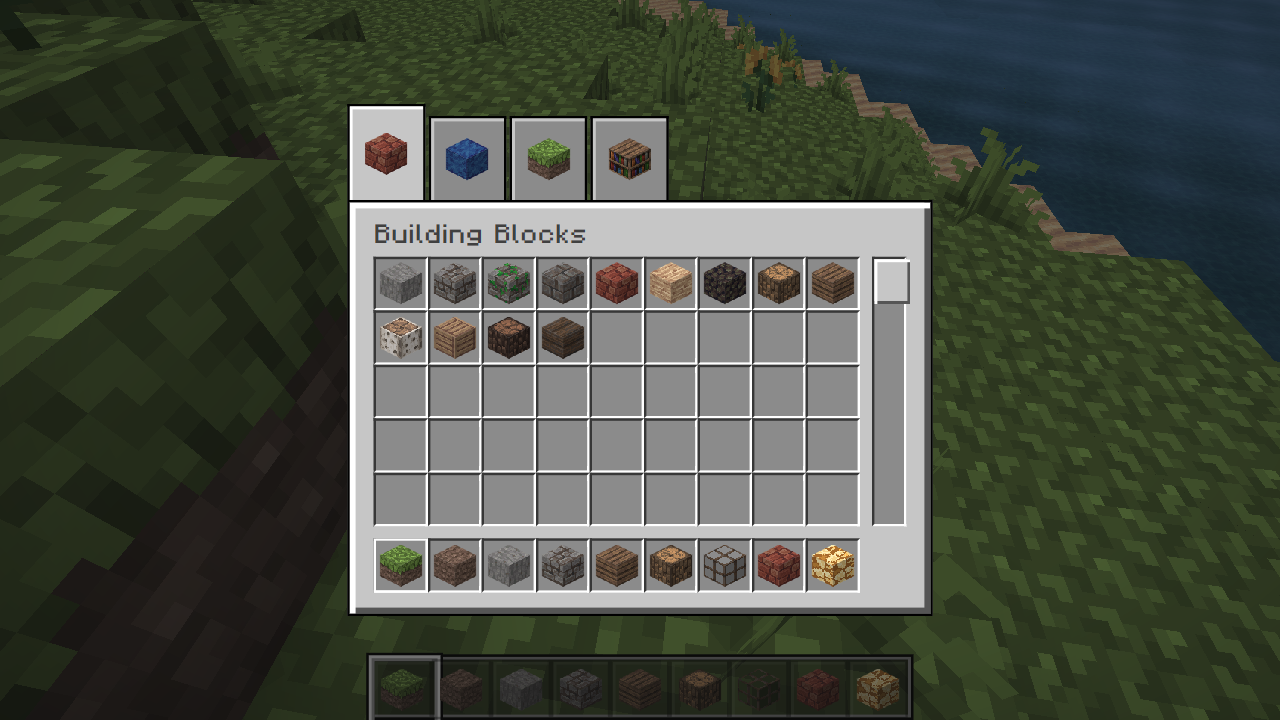
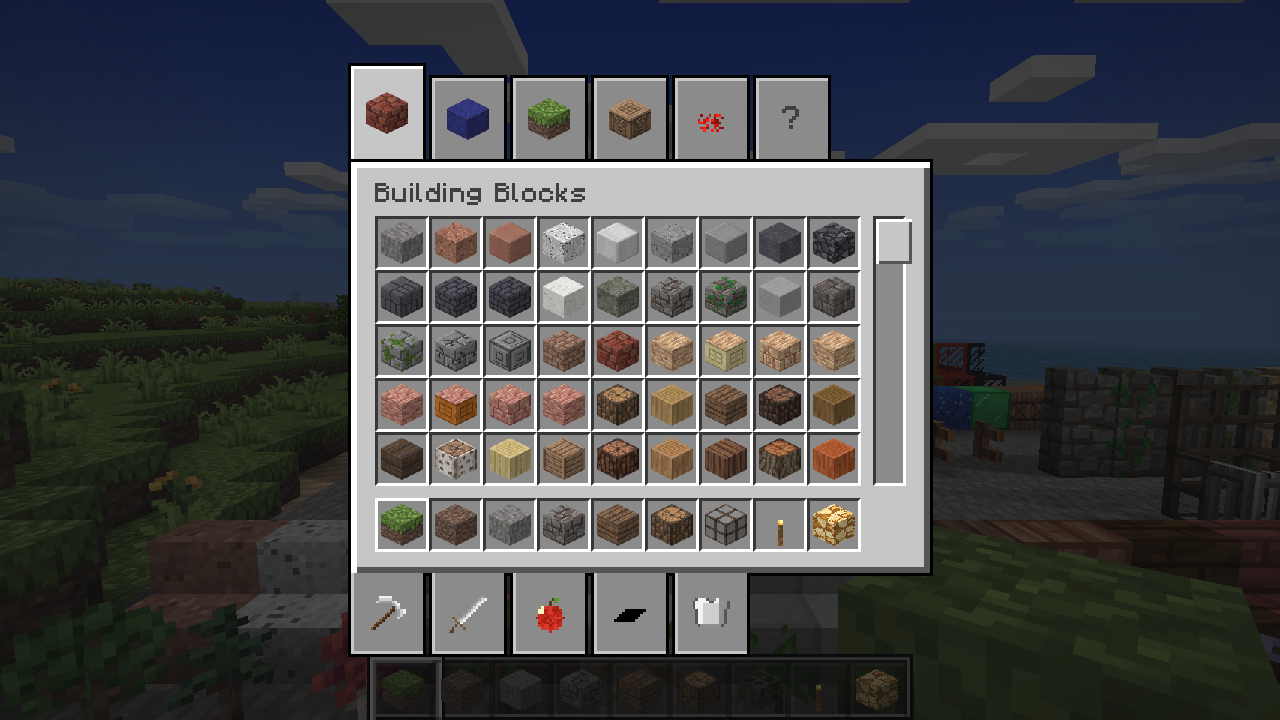
Add the Survival Inventory tab, dye tint for particles, docs and screenshots for the new content

diff --git a/src/ui/Inventory.ts b/src/ui/Inventory.ts
@@ -1,4 +1,4 @@
-import { getItemDef } from '../items/ItemRegistry';
+import { getItemDef, itemId } from '../items/ItemRegistry';
 import type { BlockIcons } from './BlockIcons';
 import { type CreativeTab, allCreativeItems, buildCreativeTabs } from './CreativeTabs';
 import { h } from './dom';
@@ -30,6 +30,8 @@ export class Inventory {
   private scrollRow = 0;
   private items: number[] = [];
   onClose: (() => void) | null = null;
+  /** The "Survival Inventory" tab: switches to the survival screen (armor, crafting). */
+  onSurvival: (() => void) | null = null;
 
   constructor(private readonly icons: BlockIcons, private readonly hotbar: Hotbar) {
     this.tabs = buildCreativeTabs();
@@ -140,7 +142,10 @@ export class Inventory {
       ...this.tabs.map((t, i) => (t.bottom ? null : this.tabEl(t.name, t.icon, i, false))).filter((e): e is HTMLDivElement => !!e),
       this.tabEl('Search Items', null, searchIndex, false),
     );
-    this.bottomTabs.replaceChildren(...this.tabs.map((t, i) => (t.bottom ? this.tabEl(t.name, t.icon, i, true) : null)).filter((e): e is HTMLDivElement => !!e));
+    const survival = h('div', { class: 'inv-tab bottom', title: 'Survival Inventory' },
+      h('img', { src: this.icons.get(itemId('iron_chestplate')), alt: '', draggable: false }));
+    survival.addEventListener('click', () => this.onSurvival?.());
+    this.bottomTabs.replaceChildren(...this.tabs.map((t, i) => (t.bottom ? this.tabEl(t.name, t.icon, i, true) : null)).filter((e): e is HTMLDivElement => !!e), survival);
     this.title.textContent = this.isSearch ? '' : this.tabs[this.tab].name;
     this.title.classList.toggle('hidden', this.isSearch);
     this.search.classList.toggle('hidden', !this.isSearch);

diff --git a/src/core/Interaction.ts b/src/core/Interaction.ts
@@ -329,7 +329,7 @@ export class Interaction {
       this.hitSoundTimer = 0.22;
       audio.play('hit', stateSound(def, hitMeta));
       renderer.particles.spawnFace(hit.x, hit.y, hit.z, hit.nx, hit.ny, hit.nz, hit.id,
-        world.getLight(hit.x + hit.nx, hit.y + hit.ny, hit.z + hit.nz), 2, world.tintAt(hit.x, hit.z, hit.id));
+        world.getLight(hit.x + hit.nx, hit.y + hit.ny, hit.z + hit.nz), 2, world.tintAt(hit.x, hit.z, hit.id, hitMeta));
     }
     if (this.breakProgress < 1) return;
 
@@ -338,7 +338,7 @@ export class Interaction {
     const brokenMeta = world.getMeta(hit.x, hit.y, hit.z);
     const broken = world.breakBlock(hit.x, hit.y, hit.z);
     if (broken) {
-      renderer.particles.spawnBreak(hit.x, hit.y, hit.z, broken, light, world.tintAt(hit.x, hit.z, broken));
+      renderer.particles.spawnBreak(hit.x, hit.y, hit.z, broken, light, world.tintAt(hit.x, hit.z, broken, brokenMeta));
       audio.play('break', stateSound(def, brokenMeta));
       if (survival) {
         const drop = blockDrop(broken, held, brokenMeta);
@@ -403,7 +403,7 @@ export class Interaction {
     const def = getBlockDef(id)!;
     audio.play('place', stateSound(def, baseMeta));
     hand.swingHand();
-    renderer.particles.spawnFace(x - hit.nx, y - hit.ny, z - hit.nz, hit.nx, hit.ny, hit.nz, id, world.getLight(x, y, z), 3, world.tintAt(x, z, id));
+    renderer.particles.spawnFace(x - hit.nx, y - hit.ny, z - hit.nz, hit.nx, hit.ny, hit.nz, id, world.getLight(x, y, z), 3, world.tintAt(x, z, id, baseMeta));
     if (hasSurvivalRules(mode)) inventory.consumeSlot(hotbar.selected);
     this.breakProgress = 0;
   }

diff --git a/src/world/World.ts b/src/world/World.ts
@@ -1,7 +1,7 @@
 import type { WorkerPool } from '../workers/WorkerPool';
 import { tintColor } from './BiomeColors';
 import { ContainerStore } from './Containers';
-import { BLOCK, BOX_KIND, SHAPE, SHAPE_CROSS, SHAPE_DOOR, SHAPE_MODEL, SOLID, TINT } from './BlockRegistry';
+import { BLOCK, BOX_KIND, DYE, DYE_RGB, SHAPE, SHAPE_CROSS, SHAPE_DOOR, SHAPE_MODEL, SOLID, TINT } from './BlockRegistry';
 import { CHUNK_READY, type Chunk } from './Chunk';
 import { ChunkManager, type ChunkMaterials } from './ChunkManager';
 import { CHUNK_HEIGHT, CHUNK_VOLUME, SEA_LEVEL, blockIndex, chunkKey } from './constants';
@@ -113,7 +113,8 @@ export class World {
   }
 
   /** Biome tint (packed 0xRRGGBB) for a block at a column; white if untinted. */
-  tintAt(x: number, z: number, id: number): number {
+  tintAt(x: number, z: number, id: number, meta = 0): number {
+    if (DYE[id]) return DYE_RGB[meta & 15];
     if (!TINT[id]) return 0xffffff;
     const c = this.chunkAt(x >> 4, z >> 4);
     const biome = c?.biomes ? c.biomes[(x & 15) + (z & 15) * 16] : 2;

diff --git a/src/core/Game.ts b/src/core/Game.ts
@@ -229,6 +229,10 @@ export class Game {
     });
 
     this.inventory.onClose = () => void this.resumeGame();
+    this.inventory.onSurvival = () => {
+      this.inventory.close();
+      this.survivalInventory.open(this.nearbyStations());
+    };
     this.stats.onHurt = () => this.audio.playHurt();
     this.input.onKeyDown = (code) => this.onKey(code);
     this.input.onLockChange = (locked) => this.onLockChange(locked);

diff --git a/scripts/content-shots.py b/scripts/content-shots.py
@@ -89,7 +89,7 @@ with sync_playwright() as p:
     time.sleep(0.5)
     n_tabs = page.evaluate("document.querySelectorAll('.inv-tab').length")
     print('tabs', n_tabs)
-    for i in range(n_tabs):
+    for i in range(n_tabs - 1):  # the last tab opens the survival inventory
         page.evaluate(f"document.querySelectorAll('.inv-tab')[{i}].click()")
         time.sleep(0.25)
         page.screenshot(path=f'{out}/tab{i}.png')

diff --git a/docs/CONTENT.md b/docs/CONTENT.md
@@ -76,6 +76,68 @@ Formules (uit de wiki): schade na harnas = `damage × (1 − min(20, max(armor/5
 Harnaspunten helm/borst/broek/laars: leer 1/3/2/1, maliën 2/5/4/1, ijzer 2/6/5/2, goud 2/5/3/1, diamant 3/8/6/3 (toughness 2 per diamantstuk).
 Duurzaamheid = basis (11/16/15/13) × multiplier (leer 5, maliën 15, ijzer 15, goud 7, diamant 33).
 
-## 4. Status
+## 4. Wat er is gebouwd
 
-Wordt bijgewerkt bij de oplevering (zie de eindtelling hieronder).
+### Telling per tab (items in de creative inventory)
+
+| Tab | Items | Voorbeelden |
+|---|---|---|
+| Building Blocks | 147 | 8 houtsoorten (log, stripped log, planken), steenfamilie, zandsteen, deepslate, modder, metaalblokken, glas, 9 + 24 slab- en trapmaterialen, deuren, luiken, hekken, poorten, muren |
+| Colored Blocks | 129 | 16 × (wol, tapijt, bed, terracotta, geglazuurd, beton, glas, glasruit) + terracotta |
+| Natural Blocks | 70 | grond, erts, logs, 8 bladsoorten, 7 saplings, 10 bloemen, paddenstoelen, suikerriet, pompoen, meloen, hooibaal, spinnenweb |
+| Functional Blocks | 15 | werkbank, oven, kist, boekenkast, ladder, fakkel, lantaarn, glowstone, zeelantaarn, uitgesneden pompoen, TNT, tralies, glasruit |
+| Redstone Blocks | 3 | alleen redstone-stof, redstoneblok en TNT: de rest is tier 2 |
+| Tools & Utilities | 26 | schop, houweel, bijl, schoffel (5 tiers), schaar, vuur-en-staal, emmers, kom |
+| Combat | 32 | zwaarden en bijlen (5 tiers), boog, pijl, 20 harnasstukken |
+| Food & Drinks | 29 | 10 vleessoorten, appel, gouden appel, brood, koekje, aardappel, wortel, meloen, taart, stoofpot, vis, bessen |
+| Ingredients | 50 | kolen, houtskool, rauwe en gesmolten metalen, edelstenen, 16 kleurstoffen, papier, boek, leer, zaden |
+
+Totaal: **182 bloktypes** (hoogste id 185 van 254, dus nog ruim 60 vrij), ~480 uniek vindbare items, **~420 recepten** (106 zonder werkbank, 271 met werkbank,
+43 smelten), **223 textuurlagen** van de 255 die `FACE_LAYER` toelaat.
+
+### Ontwerpkeuzes
+
+- **Kleurfamilies via tint:** wol, beton, terracotta, geglazuurd terracotta, gekleurd glas, tapijt, ruiten en bedden gebruiken één grijze basistextuur
+  (alpha 128 = "vermenigvuldig met de hoekpunttint" voor ondoorzichtige blokken) en `meta & 15` kiest de kleur. Voor een geïmporteerd Minecraft-jar
+  wordt `white_*` met dezelfde tint vermenigvuldigd. Gekleurd glas is alpha-getest en dus niet doorzichtig; echte transparantie is tier 2.
+- **Materiaal in de state:** `SLAB_X` (bits 2-6, 24 materialen), `STAIRS_X` (bits 3-7), deuren (bits 5-7), luiken (bits 4-7), hekpoorten (bits 3-5), hekken (bits 0-2)
+  en muren (bits 0-4). Het materiaal bepaalt via `VARIANT_LAYER` de textuurlaag, geluid, hardheid en gereedschap. De mesher leest daarvoor alleen
+  `meta` voor deze vormen, kubussen blijven goedkoop (kleur en voorkant zijn de enige uitzonderingen).
+- **Eigen id's voor wat de worldgen moet kunnen plaatsen:** granite, diorite, andesite, tuff, calcite, deepslate-set, ertsen, bloemen, paddenstoelen,
+  suikerriet, pompoen, melon, ijs, cobweb, en de logs en bladeren van jungle, acacia, dark oak, mangrove en cherry zijn gewone blok-id's. **Voor het
+  terrein-team:** deze blokken staan klaar (`CUBE_ID.<naam>`, bijv. `CUBE_ID.granite`, `CUBE_ID.jungle_log`) maar worden nog door niets gegenereerd.
+- **Dunne vormen** (`src/world/BoxShapes.ts`): tapijt, luik, hekpoort, hek, muur, glasruit/tralies, ladder en bed zijn een paar boxen waarvan
+  zichtbare vorm, botsing en raycast uit dezelfde functies komen. Hekken, muren en ruiten leiden hun verbindingen af uit de buren (zoals trappen),
+  hekken en muren zijn 1,5 hoog (de botsing kijkt daarom één cel lager). Een bed is twee blokken, een ladder klimt via `Player.step`.
+- **Furnace, kist en pompoenen** hebben een richting (`meta & 3` bepaalt welke zijde de voorkant toont). `meta 0` is de oude vaste voorkant, dus
+  bestaande ovens veranderen niet.
+- **Chests** (`ContainerStore`, `WorldMeta.containers`): de inhoud staat los van de chunks en wordt met de wereld opgeslagen. In multiplayer slaat de server
+  geen containers op; kisten zijn daar niet te plaatsen.
+- **Per-stack data:** `ItemStack.data?: Record<string, number>` met een append-only sleutellijst (`ITEM_DATA_KEYS`). Opslagformaat
+  `[id, count, damage, sleutel, waarde, ...]`, dus oude saves (3 getallen) blijven geldig; `drop` en `taken` dragen `data` mee.
+- **Harnas** zit als 4 extra records (slot 36-39) in `PlayerInventory.serialize()`: oude saves en de server (limiet 64 records) blijven werken.
+
+### Wat bewust anders is dan vanilla
+
+- Beton heeft geen poeder (4 zand + 4 grind + kleurstof → 8 beton); kleurstoffen: bruin (cacao), zwart (inktzak) en grijs (heeft zwart nodig) hebben nog geen bron.
+- Een bed zet je respawnpunt en slaapt 's nachts door, zonder spelers-in-bed-telling of monstercheck.
+- Mud bricks en hooi vragen tarwe, dus landbouw (tier 2). Het brood-, koekje-, taart- en leerrecept zijn er, maar wat ze als grondstof nodig hebben ontbreekt nog in de wereld
+  (tarwe, cacao, eieren, leer van koeien). `tests/recipes.test.ts` houdt dit lijstje bij ("OUT_OF_REACH").
+- Een kist is een volle kubus (geen kleinere kist met deksel) en heeft geen dubbele variant.
+- Boekenkast blijft 6 planken (vanilla: + 3 boeken), omdat leer nog geen bron heeft.
+- Gouden appel geeft honger en saturatie maar nog geen Absorption en Regeneration (geen effectensysteem).
+- Het bed, de kist en de lantaarn hebben procedurele texturen (in een Minecraft-jar zijn ze entity-textures); de rest wordt wel uit een geïmporteerd jar geladen.
+- Een ontploft blok laat een gekleurd blok als witte wol vallen (`World.explode` kent de state van vernietigde blokken niet).
+
+### Tier 2 en nooit
+
+Tier 2: redstone en alles ervan, landbouw met groeifases en random ticks, enchanting, brouwen, smithing en netherite, anvil, grindstone, blast furnace, smoker,
+stonecutter, schild, kruisboog, hengel en vis, boten en minecarts, kaarsen, banners, borden, koraal, amethist, dripstone, azalea, kelp en bamboe, concrete powder,
+doorzichtig glas en ijs, kisten in multiplayer, dubbele kisten, vallende blokken. Nooit: Nether en End (blackstone, crimson/warped, quartz, purpur, end stone,
+prismarine), Deep Dark, Trial Chambers, spawn eggs en operator-blokken.
+
+### Pixel Perfection
+
+Voor de nieuwe blokken zijn uit de Pixel Perfection-repo (CC BY-SA 4.0) 38 textures toegevoegd in `public/texturepacks/pixel-perfection/`: jungle- en acaciahout, kistzijden,
+metaalblokken, rood zand, ijs, ladder, suikerriet, hooi, paddenstoelen, tulp en saplings. Alles wat het pack niet heeft blijft procedureel
+(`src/rendering/ContentPainters.ts`). De namen voor een Minecraft-jar staan in `MINECRAFT_LAYOUT` (`MINECRAFT_SAME_NAME` voor de textures met dezelfde naam).

diff --git a/docs/GAMEPLAY.md b/docs/GAMEPLAY.md
@@ -84,6 +84,34 @@ in BunkCraft zit. Getallen komen uit de Minecraft Wiki, tenzij anders vermeld.
   - Links klikken pakt een stack op, legt hem neer, voegt samen of wisselt; rechts klikken splitst of legt er één neer.
   - Met Q laat je een item vallen.
 
+## Inhoud van 1.21 (blokken, tools, harnas, voedsel)
+
+Onderzoek, ontwerp en tellingen: [`CONTENT.md`](CONTENT.md). Kort:
+
+- **Blokken:** 8 houtsoorten (eik, spar, berk, jungle, acacia, donkere eik, mangrove, kers) met logs, stripped logs, planken, bladeren,
+  slabs, trappen, deuren, luiken, hekken en hekpoorten; steen (graniet, diorite, andesiet en hun gepolijste varianten, tuff, calciet,
+  deepslate-set, stenen bakstenen met mossy/cracked/chiseled, modderstenen); zandsteen en rood zandsteen met chiseled/cut/smooth;
+  16 kleuren wol, beton, terracotta, geglazuurd terracotta, glas, ruiten, tapijt en bedden; muren, ijzeren tralies, ladders, kisten,
+  lantaarns; ertsen en opslagblokken; hooibaal, pompoen, meloen, ijs, bloemen, paddenstoelen, saplings en suikerriet.
+- **Tools:** hout, steen, ijzer, goud en diamant met de echte snelheid en duurzaamheid; zwaard 4/5/6/4/7 schade, bijl 7/9/9/7/9,
+  houweel 2/3/4/2/5, schop 2,5-5,5, schoffel 1. Schaar (wol, bladeren, spinnenweb). Gouden gereedschap is het snelst maar heeft oogstniveau hout.
+- **Gereedschap gebruiken (rechtermuisknop):** schoffel maakt akkergrond van gras en aarde (en aarde van grof aarde), schop maakt paden,
+  bijl stript logs, schaar snijdt een pompoen uit (en geeft zaden).
+- **Ertsen:** koper en lapis vragen steen, redstone en smaragd ijzer, goud en diamant ijzer; opbrengst koper 2-5 rauw koper, lapis 4-9, redstone 4-5.
+  IJzer, goud en koper geven rauw erts dat je smelt.
+- **Harnas:** helm, borstplaat, broek en schoenen van leer, maliën, ijzer, goud en diamant (maliën alleen in creative). Rechtermuisknop
+  met een stuk in de hand draagt het; de survival-inventory heeft vier harnasslots (shift-klik werkt ook). De armor-balk toont 0-20 punten;
+  schade wordt verminderd met `min(20, max(armor/5, armor − schade/(2 + toughness/4)))/25`, en elk stuk verliest `max(1, ⌊schade/4⌋)` duurzaamheid.
+  Val, verdrinken, honger, de void en gif negeren harnas.
+- **Voedsel:** appel, brood, koekje, aardappel en gebakken aardappel, wortel, gouden appel en wortel, meloenschijf, pompoentaart, paddenstoelenstoofpot
+  (geeft de kom terug), vis, bessen, bieten, konijn, met de vanilla-waarden.
+- **Kist:** 27 slots, rechtermuisknop opent, shift-klik verplaatst stapels, breken laat de inhoud vallen. Opgeslagen per wereld; **alleen singleplayer**
+  (de multiplayer-server bewaart geen containers; daar kun je geen kist plaatsen).
+- **Bed:** twee blokken, rechtermuisknop zet je respawnpunt en slaapt 's nachts door tot de ochtend (singleplayer).
+- **Ladder:** klimmen met springen of tegen de muur aan lopen, sneaken houdt je vast; hekken en muren zijn 1,5 blok hoog.
+- **Recepten:** ongeveer 420, met vanilla-aantallen. Het receptenboek heeft tabs (Now, All, Build, Wood, Tools, Combat, Food, Items, Colors, Smelt)
+  en een zoekveld; alleen recepten van stations binnen 4 blokken worden getoond.
+
 ## Nieuwe blokken
 
 | Blok | Details |
@@ -104,7 +132,7 @@ Een geïmporteerd Minecraft-resourcepack levert ook textures voor `torch`, `lava
 2. **Vloeistofstroming:** **gedaan** (water en lava, emmers).
 3. **Vallend zand en grind** als entity.
 4. **Meer mobs:** skeleton (pijlen) en spin (klimmen).
-5. **Meer blokken en items:** kist, TNT, harnas, XP-orbs en de XP-balk.
+5. **Meer blokken en items:** XP-orbs en de XP-balk, landbouw met groeifases, enchanting (de `ItemStack.data` is er klaar voor), brouwen, anvil, schilden en boten (zie `CONTENT.md`, tier 2).
 6. **Multiplayer:** zie [`MULTIPLAYER.md`](MULTIPLAYER.md).
 
 ## Bronnen

diff --git a/docs/ROADMAP.md b/docs/ROADMAP.md
@@ -78,9 +78,24 @@ wat al is doorgevoerd.
    - Nog te doen op deze basis: **ladders, muurfakkels, gewassen** (groeifase in `meta`), **oven met een richting** (en een brandende staat), **bed** (2 blokken), vallend zand en grind, waterlogged slabs, stroming die entities meeduwt, lava-fakkels/vuur, trapdoors en hekken (zelfde `partial`-machinerie).
    - Bewust anders dan Minecraft: de trapvorm wordt afgeleid uit de buren (niet opgeslagen) en lava vertraagt niet willekeurig (`random.nextInt(4)`).
 5. **Landbouw (M):** saplings, tarwe, brood en een schoffel. Hernieuwbaar hout en voedsel.
-6. **Meer survival-inhoud (M):** harnas met een armor-bar, XP-orbs met een XP-balk. Skeleton (schiet elke 2 s, verbrandt in daglicht; drops botten en pijlen) en spin (klimt, springt, neutraal in fel licht; drops draad en spinnenoog met Poison) zijn **Gedaan**.
+6. **Meer survival-inhoud (M):** harnas met een armor-bar: **Gedaan** (zie §4b). XP-orbs met een XP-balk. Skeleton (schiet elke 2 s, verbrandt in daglicht; drops botten en pijlen) en spin (klimt, springt, neutraal in fel licht; drops draad en spinnenoog met Poison) zijn **Gedaan**.
 7. **Structuren (M per stuk):** dungeon met spawner en kisten, mijnschachten, later dorpen.
 8. **Eindspel (L):** een "Underworld"-dimensie of een stronghold met een eindbaas en credits.
+
+## 4b. Inhoud van Minecraft 1.21 (creative inventory en wat je ermee kunt)
+
+Ontwerp, tellingen en tier-lijst: [`CONTENT.md`](CONTENT.md). **Gedaan:**
+
+- **Item-identiteit voor varianten:** item-id's ≥ 1024 zijn `blok + variantbits`, kleuren en materialen zitten in de `meta`-byte (geen nieuwe
+  blok-id's per kleur). Dyed blokken gebruiken één grijze textuur met een tint per hoekpunt in de mesher (0 extra lagen, meshtijd gelijk:
+  3,5-3,8 ms per chunk tegen 3,5-3,7 ms ervoor). Slabs, trappen, deuren, hekken, luiken, poorten en muren hebben het materiaal in de state.
+- **`ItemStack.data`** (enchants en dergelijke) is er, wordt opgeslagen en over het netwerk meegestuurd; stapels met verschillende data voegen nooit samen.
+- Harnas (armor-balk, schadeformule, slijtage), schoffel, schaar, tooluse (akkergrond, paden, strippen, pompoen snijden), kist (27 slots), bed, ladder.
+- Creative inventory met tabs, scrollen, zoeken en tooltips; receptenboek met tabs en zoeken; ~420 recepten.
+- **Nog te doen (tier 2):** landbouw (tarwe, wortels en aardappels, hoofdreden dat brood, koekjes en modderstenen nog niet te maken zijn), enchanting, brouwen, smithing en
+  netherite, anvil, grindstone, blast furnace, smoker, schild, hengel, kaarsen, banners, koraal, ruitjes met doorzichtigheid (gekleurd glas is alpha-getest),
+  kisten in multiplayer, een echte kist-animatie, kisten met richting-afhankelijke dubbele variant, vallend zand en grind, en dat de worldgen de nieuwe blokken
+  (graniet, diorite, andesiet, tuff, calciet, deepslate, nieuwe ertsen, bloemen, junglebomen) nog moet plaatsen.
 
 ## 5. Sfeer
 

diff --git a/README.md b/README.md
@@ -38,6 +38,10 @@ dag/nachtcyclus. Geen installatie nodig, en geen Minecraft-assets.
 |---|---|
 | ![Inventory](docs/screenshots/inventory.png) | ![Video settings](docs/screenshots/video-settings.png) |
 
+| Nieuwe blokken (hout, kleuren, hekken, ladders, bedden) | Survival-inventory met harnas en receptenboek |
+|---|---|
+| ![Nieuwe blokken](docs/screenshots/content-build.png) | ![Survival-inventory](docs/screenshots/survival-inventory.png) |
+
 ![Pauzemenu](docs/screenshots/pause.png)
 
 ## Snel starten
@@ -103,7 +107,10 @@ Options → Controls → Key Binds, ook naar muisknoppen (zoals in Minecraft).
 - **Block states:** slabs en trappen (9 materialen, plaatsing als in Minecraft), een eikenhouten deur, en **stromend water en lava** (water 7 blokken per 5 ticks, lava 3 blokken per 30, oneindige bronnen, obsidiaan en cobblestone waar ze elkaar raken) met ijzeren, water- en lavaemmers. In multiplayer simuleert de server de vloeistoffen. Zie [`docs/BLOCKSTATES.md`](docs/BLOCKSTATES.md).
 - First-person-besturing met pointer lock, zwaartekracht, springen, sprinten, zwemmen en vliegen.
 - Blokken breken met crack-animatie en deeltjes; blokken plaatsen met een bereik van 5 blokken.
-- 66 bloktypes, een creative inventory met tabbladen en een hotbar.
+- **Veel inhoud uit Minecraft 1.21** (zie [`docs/CONTENT.md`](docs/CONTENT.md)): 8 houtsoorten met stripped logs, slabs, trappen, deuren, luiken, hekken en poorten, steenvarianten (graniet, diorite, andesiet, tuff, calciet, deepslate, bakstenen), zandsteen en rood zandsteen, 16 kleuren wol, beton, terracotta, geglazuurd terracotta, gekleurd glas en ruiten, tapijt en bedden, muren, ijzeren tralies, ladders, lantaarns, kisten met 27 slots, ertsen (koper, lapis, redstone, smaragd) en metaalblokken, bloemen en saplings.
+- **Tools en harnas:** houweel, bijl, schop, schoffel en zwaard in vijf tiers met de echte schade en duurzaamheid, een schaar, harnas van leer tot diamant (armor-balk, schadeformule met toughness, slijtage), schoffel maakt akkergrond, schop paden, bijl stript logs.
+- **Voedsel en grondstoffen** met de echte honger- en saturatiewaarden, ongeveer 420 recepten met vanilla-aantallen en een receptenboek met categorieën en zoeken.
+- 180 bloktypes en ruim 480 items; een creative inventory met tabs (Building Blocks, Colored Blocks, Natural Blocks, Functional Blocks, Redstone, Tools, Combat, Food, Ingredients), scrollen en zoeken, en een hotbar.
 - Werelden en je bouwwerken worden automatisch opgeslagen (IndexedDB).
 
 **Graphics**

diff --git a/public/texturepacks/pixel-perfection/CREDITS.md b/public/texturepacks/pixel-perfection/CREDITS.md
@@ -10,3 +10,6 @@ BunkCraft uses a subset of these textures unmodified. At runtime, grass and leav
 are converted to greyscale and the green overlay of the grass block side is masked, so they
 can be tinted per biome. Water uses the first frame of the animation strip. Ore and
 grass-side textures are composited from the pack's base and overlay images.
+
+Since the content update the subset also contains: jungle and acacia wood and leaves, the chest, steel/gold/diamond/coal/copper blocks, desert sand and stone,
+ice, wooden ladder, papyrus, straw, mushrooms, tulip, geranium, viola, white dandelion, jungle grass and the sapling textures (all unmodified).
